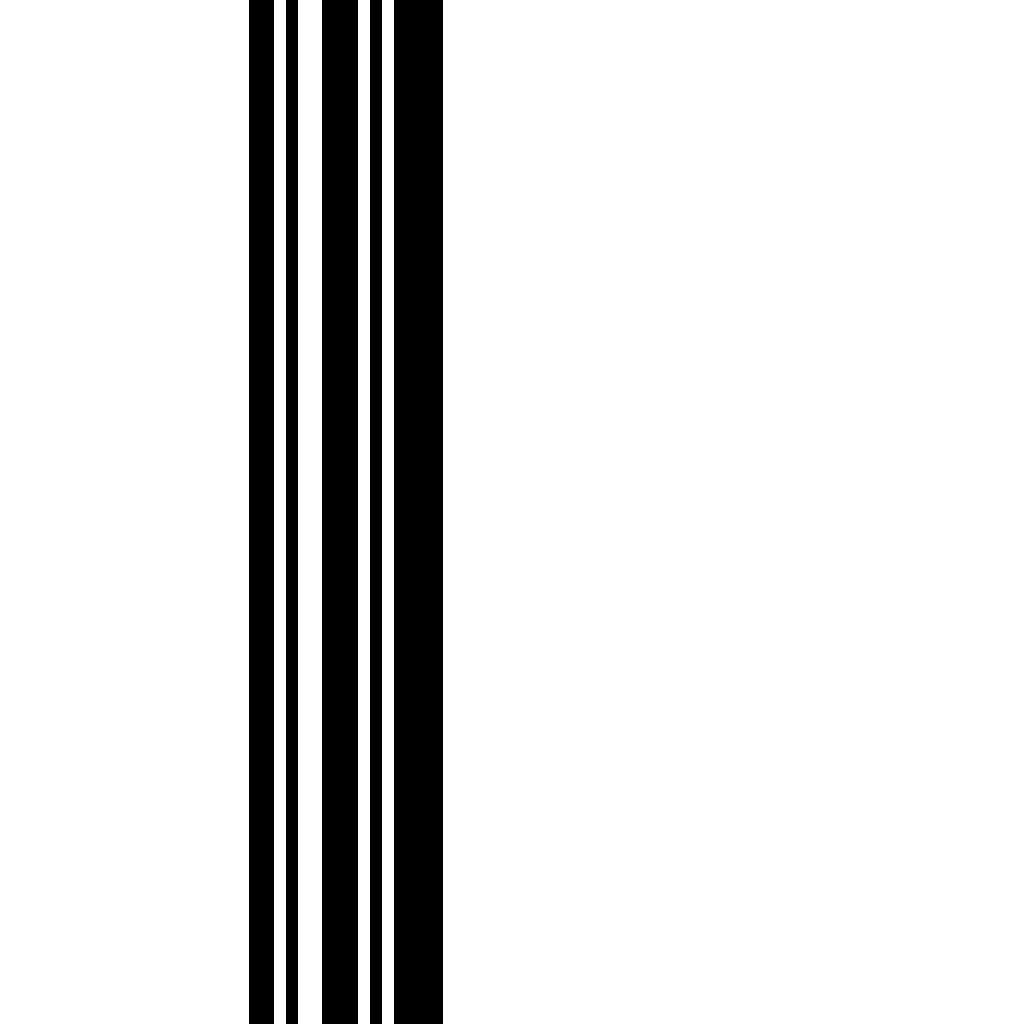
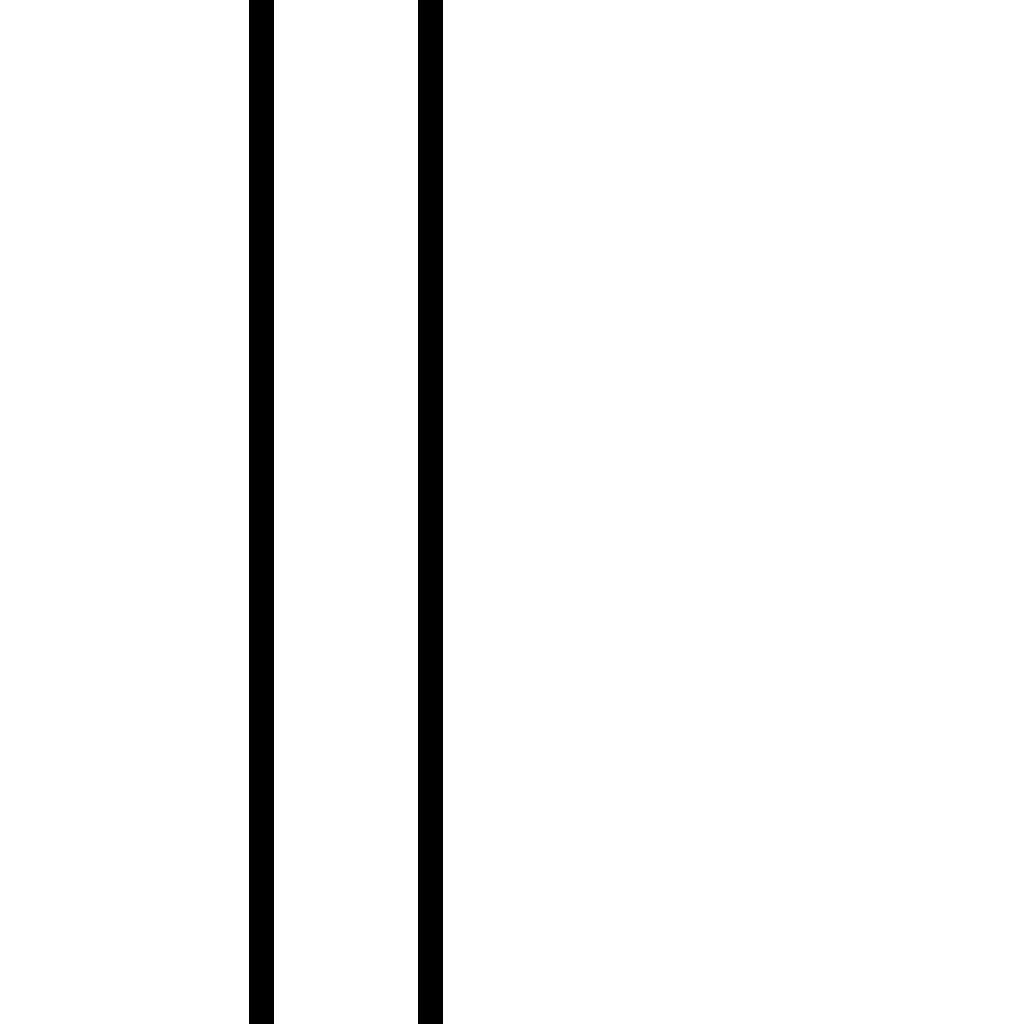
begin/end robustesse ++

Changed region(s): [[0.2812, 0.0, 0.4062, 1.0]]

diff --git a/ImageGenerator.py b/ImageGenerator.py
@@ -2,7 +2,8 @@ import numpy
 from PIL import Image
 
 data = numpy.zeros((1024, 1024, 3), dtype=numpy.uint8)
-tab_music = numpy.array([1, 1, 0, 1, 0, 0, 1, 1, 1, 0, 1, 0, 1, 1, 1, 1])
+#tab_music = numpy.array([1, 1, 0, 1, 0, 0, 1, 1, 1, 0, 1, 0, 1, 1, 1, 1])
+tab_music = numpy.array([1, 1, 0 , 0, 0, 0, 0, 0, 0, 0, 0, 0, 0, 0, 1, 1])
 
 
 #constantes globales
